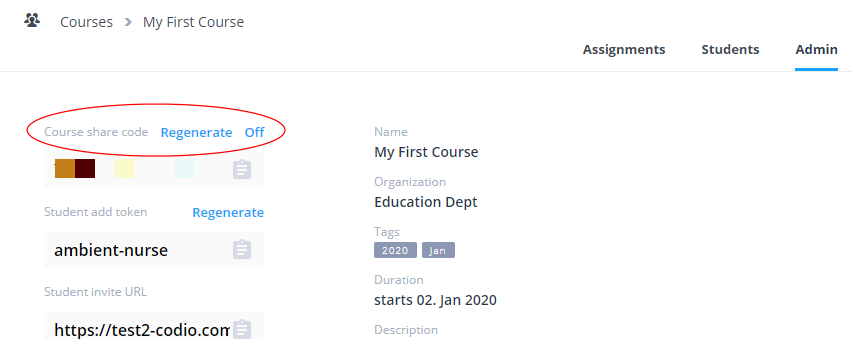
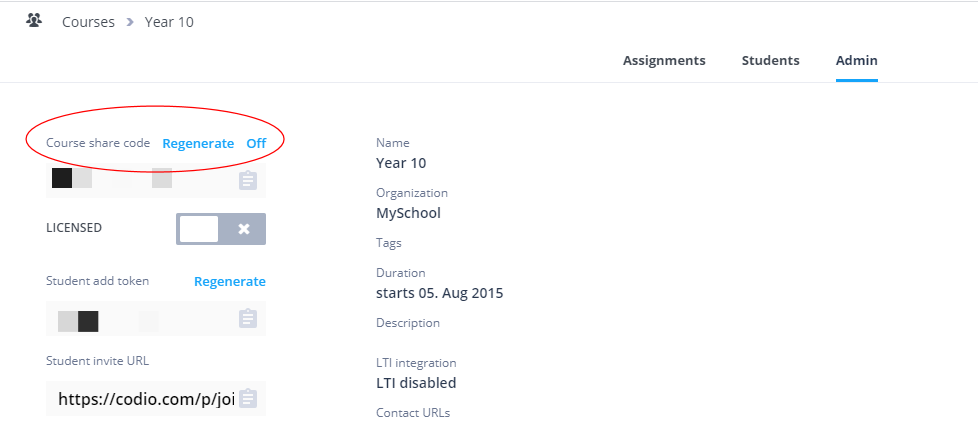
changelog #10737 #12234 (#81)

diff --git a/docs/resources/changelog.md b/docs/resources/changelog.md
@@ -11,11 +11,16 @@ We do not report small bug fixes or issues that affect individual users, who we 
 `[I]` = Update or improvement
 `[F]` = New feature
 
+**February 2021**
+
+- `[I] [ 2nd]`: Allow teachers to make [changes to students](/courses/grading/#accessing-student-work) completed/read-only assignments
+- `[F] [ 2nd]`: Allow [cloning/sharing](/courses/classes/#restricting-courses-from-being-clonedshared) of courses to be restricted
+
 **January 2021**
 
 - `[I] [25th]`: Add configuration option for nbgrader/jupyter units to allow ClearSolutions.code_stub to be used
 - `[I] [25th]`: Fix problem with teacher guidance not showing when previewing assignment in course
-- `[I] [22nd]`: Add support for [ungraded assessments](k/courses/assessments/#ungraded-assessments) and for survey usage
+- `[I] [22nd]`: Add support for [ungraded assessments](/courses/assessments/#ungraded-assessments) and for survey usage
 - `[I] [19th]`: Update [Desktop App](/dashboard/desktopapp/) for new student dashboard
 - `[I] [18th]`: Add Student Path field for python unit tests
 - `[I] [18th]`: Add prolog syntax highlighting support

diff --git a/docs/courses/classes.md b/docs/courses/classes.md
@@ -55,6 +55,16 @@ To share your course with others
 
 1. In order that you can manage access you can disable the code and/or regenerate to create a new code and the original code can no longer be used.  
 
+### Restricting child courses from being cloned/shared
+
+To restrict a course that is shared/cloned from a master course from being shared/cloned further, enable **Course share code** as above and enable **Licensed**
+
+Please note:
+
+- Child courses created from licensed master courses cannot be shared/cloned and the content cannot be added into other courses/modules or as assignments
+- The ability to enable/disable course share code is restricted in such child courses
+
+
 
 ### Cloning a Course
 

diff --git a/docs/courses/grading.md b/docs/courses/grading.md
@@ -52,7 +52,7 @@ or you can export all the data from a course (including the students workspaces)
 
 ## Accessing student work
 
-As a teacher you have access to your students cloud area within Codio. This allows you to view and access any work your students have completed at any time.
+As a teacher you have access to your students cloud area within Codio. This allows you to view and access any work your students have completed at any time. Where students assignments are completed and read only, you can enable writable mode to be able to make changes if necessary.  
 
 1. From the **Courses** area, click on your course to open it.
 
